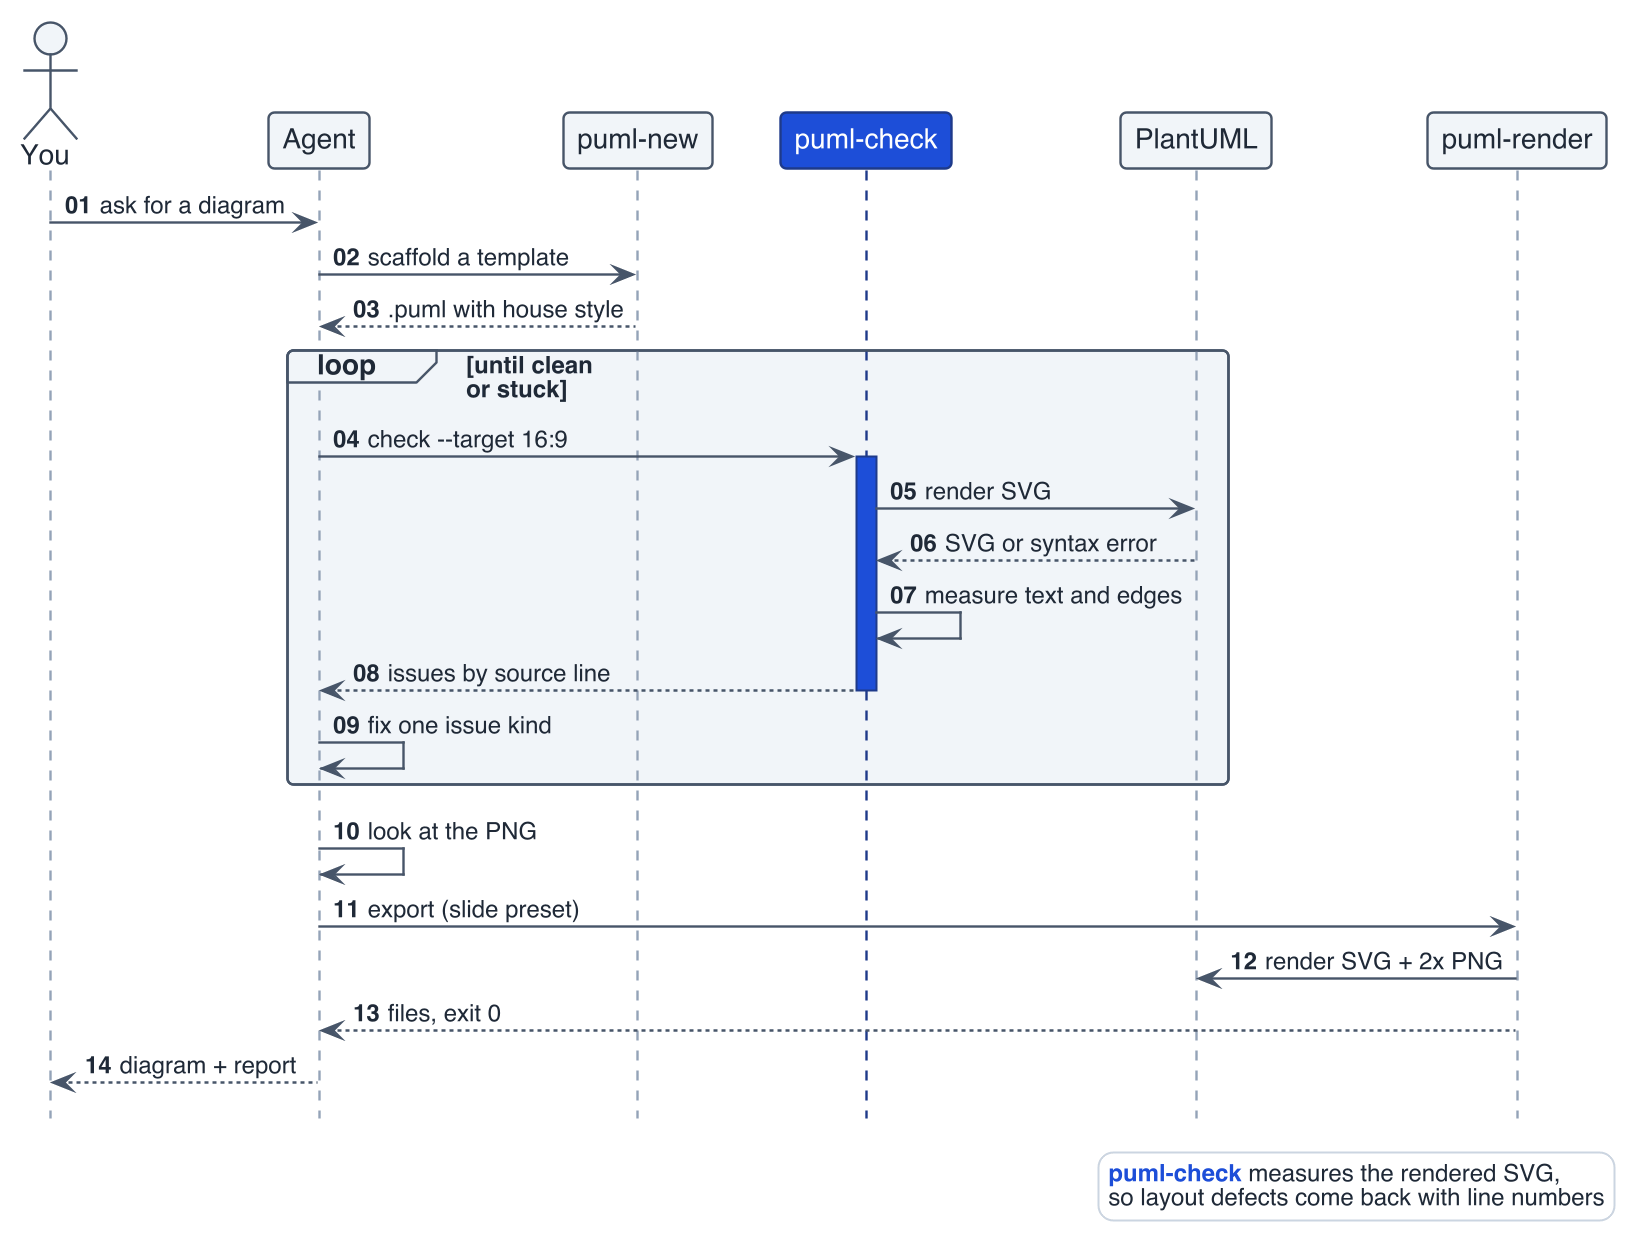
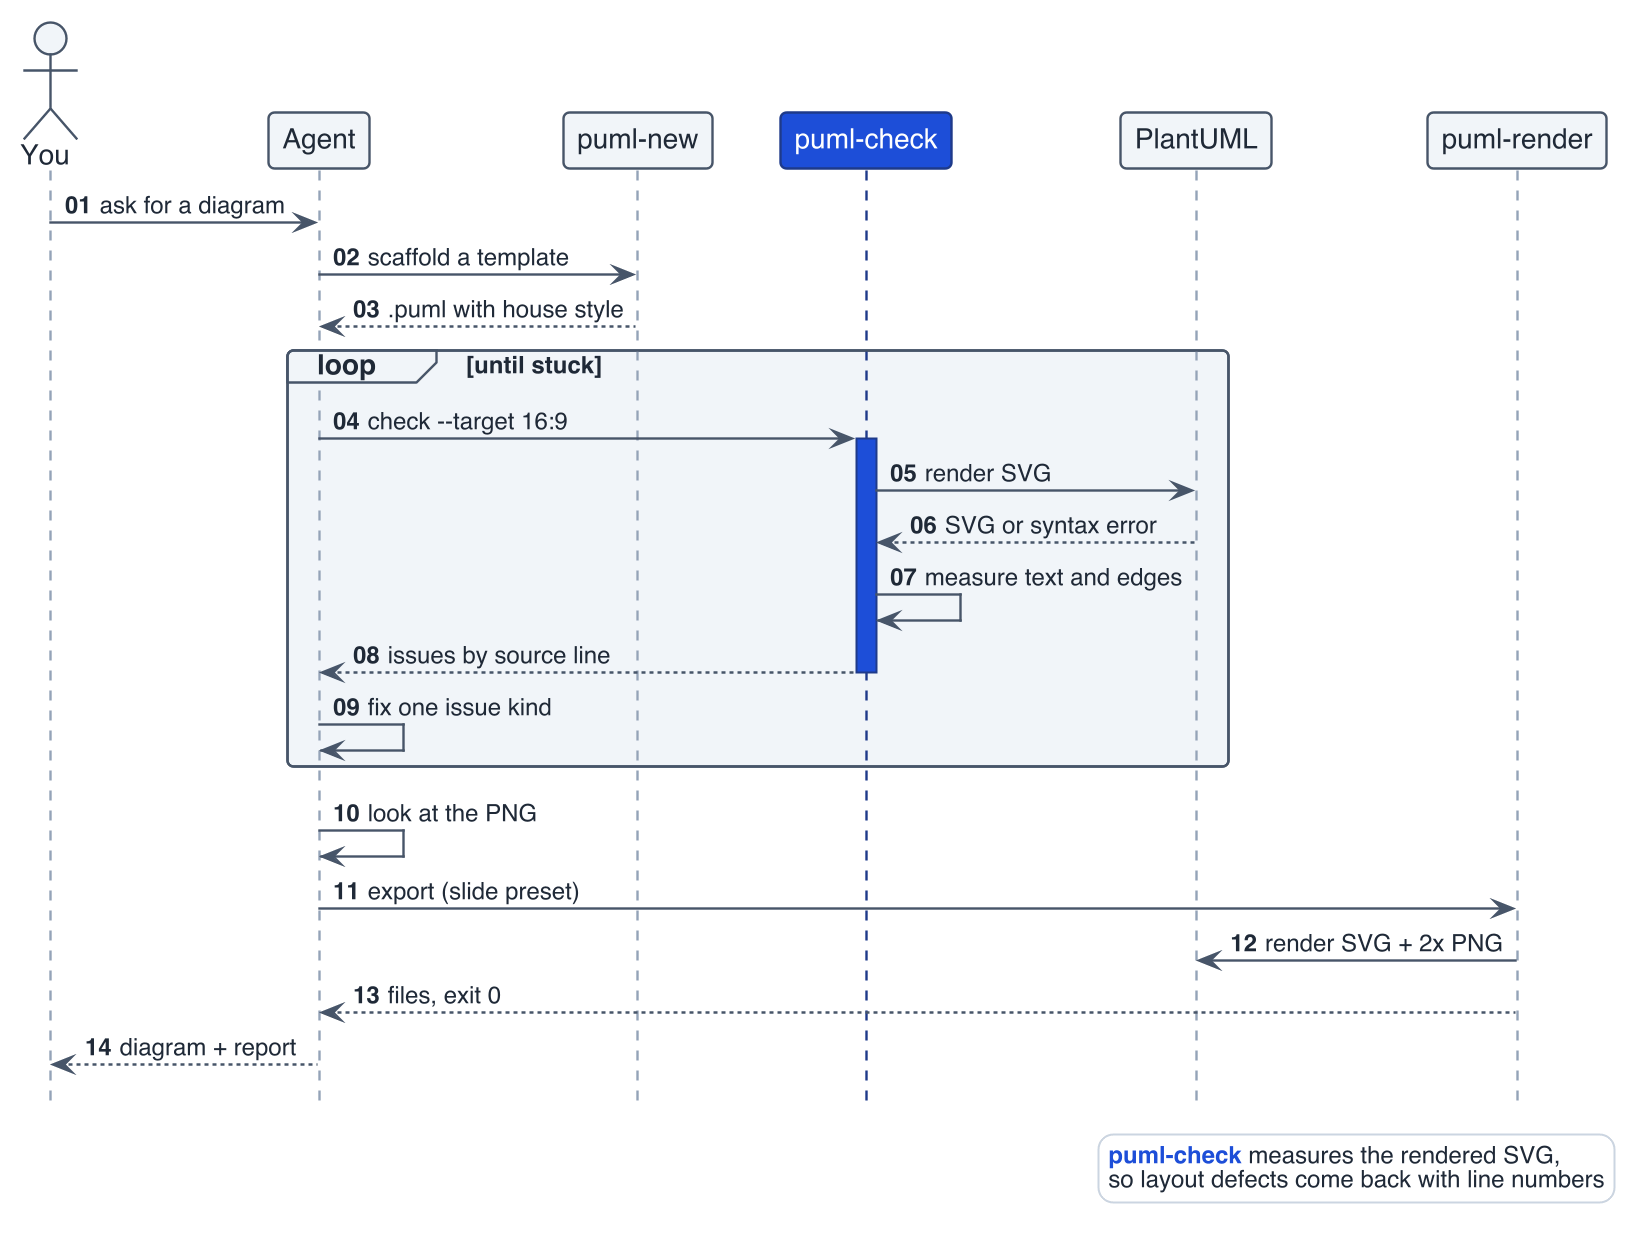
Address review: stop rule from the first render, table in choosing-and-design
- Count warn lines from the first run that renders, and stop after two
  runs that do not set a new low (a fixed syntax ERROR no longer reads
  as a regression). Cap 12 runs: the field tests needed up to 10.
- Move the simplify/split table to choosing-and-design.md (layout.md
  covers Graphviz diagrams only); data flow splits by level as
  domains.md documents; add a network row.
- One-line loop label: the two-line label made the README diagram
  taller and failed its own aspect check.

diff --git a/skills/plantuml-diagrams/references/choosing-and-design.md b/skills/plantuml-diagrams/references/choosing-and-design.md
@@ -32,4 +32,22 @@ edges: from -> to : label           (≤ 4 words)
 direction: TB | LR                  (TB for hierarchies/trees; LR for chains, pipelines, layered flows on slides)
 target: 16:9 | letter | none
 ```
-Then scaffold (`puml-new`), fill in, check, look, fix (until two runs in a row stop lowering the issue count), export.
+Then scaffold (`puml-new`), fill in, check, look, fix (see below for when to stop), export.
+
+## When the fix loop stalls
+Count the `warn` lines from the first run that renders; fix a syntax `ERROR` first, it does not count. Keep going while
+a run sets a new lowest count. Stop when two runs in a row do not beat the lowest count so far, or at 12 runs. In the
+field tests, dense diagrams inside the size limits took 4-10 runs. When they stall, the remaining issues usually just
+move around (an edge that crosses a boundary title crosses another title after each change). Then simplify before you
+split, and tell the user what you dropped:
+
+| Type | Simplify | Split |
+|---|---|---|
+| Sequence | reorder participants so most messages go between neighbours; payload detail in a `note right` | one diagram per flow or phase (`references/sequence.md`) |
+| Activity | `switch` instead of `elseif` chains; ≤ 3 lanes on a slide | by phase (`references/activity.md`) |
+| Component, deployment, cloud | link to the package, not its members; move a one-to-many fan-out ("writes PDFs, sends email") into the source node; leave out an edge that loops around the whole diagram and say so in the legend | overview + one diagram per layer or zone, `<<muted>>` "(see X)" stubs (`references/domains.md`) |
+| Data flow | draw writes only, "reads omitted" in the legend | level 0, then one level-1 diagram per process (`references/domains.md`) |
+| Network | a redundant pair as one node ("A / B") with one edge; ports in the node label, not on edges | by site and by layer; physical and logical apart past ~12 nodes (`references/domains.md`) |
+| C4 | people and externals beside the boundary; shorter boundary title | split the container view by path and repeat the shared containers (`references/c4.md`) |
+| ER, class | names only; `package` per subject area, link the packages | one diagram per subject area with stub tables (`references/data-model.md`) |
+| State | composite state for a sub-lifecycle | one diagram per machine + an overview of machines (`references/state.md`) |

diff --git a/skills/plantuml-diagrams/references/layout.md b/skills/plantuml-diagrams/references/layout.md
@@ -103,18 +103,5 @@ orthogonal look on label-light diagrams.
 1. `plantuml -testdot` (Graphviz present?).
 2. `scripts/puml-check file.puml --target ...` and read the issue lines (source line numbers are 1-based).
 3. Add `!pragma svek_trace on`, render, read `svek.dot`: check `minlen`, reversed edges, `constraint=false`, clusters, node order.
-4. Change **one** thing per iteration (a direction, a hidden link, a split). Re-check. Count the `warn`/`ERROR` lines
-   after each run: keep going while the count drops. In the field tests, dense diagrams inside the size limits took 5-9
-   runs to come clean. Stop when two runs in a row do not lower the count, or at 10 runs: the remaining issues usually
-   just move around (for example, an edge that crosses a boundary title crosses another title after each change).
-5. Then simplify before you split, and tell the user what you dropped:
-
-| Type | Simplify | Split |
-|---|---|---|
-| Sequence | reorder participants so most messages go between neighbours; payload detail in a `note right` | one diagram per flow or phase (`references/sequence.md`) |
-| Activity | `switch` instead of `elseif` chains; ≤ 3 lanes on a slide | by phase (`references/activity.md`) |
-| Component, deployment, cloud | link to the package, not its members; move a one-to-many fan-out ("writes PDFs, sends email") into the source node; leave out an edge that loops around the whole diagram and say so in the legend | overview + one diagram per layer or zone, `<<muted>>` "(see X)" stubs (`references/domains.md`) |
-| Data flow | draw writes only, "reads omitted" in the legend | one diagram per trust zone |
-| C4 | people and externals beside the boundary; shorter boundary title | split the container view by path and repeat the shared containers (`references/c4.md`) |
-| ER, class | names only; `package` per subject area, link the packages | one diagram per subject area with stub tables (`references/data-model.md`) |
-| State | composite state for a sub-lifecycle | one diagram per machine + an overview of machines (`references/state.md`) |
+4. Change **one** thing per iteration (a direction, a hidden link, a split). Re-check. When to stop, and what to
+   simplify or split then: `references/choosing-and-design.md`, "When the fix loop stalls".

diff --git a/skills/plantuml-diagrams/SKILL.md b/skills/plantuml-diagrams/SKILL.md
@@ -37,7 +37,7 @@ good without running it. All paths below are relative to this skill's directory.
 2. **Inventory** (verifiable intermediate): list `alias | label | group` and `from -> to : label`; count; split if over the limits; decide target (`16:9`, `letter`, or none).
 3. **Scaffold**: `scripts/puml-new <type> docs/diagrams/<slug>.puml --title "..." [--preset slide|print] [--direction lr|tb]` then replace the example body.
 4. **Check**: `scripts/puml-check docs/diagrams/<slug>.puml --target 16:9 --png --out docs/diagrams/out`. Read every `warn`/`ERROR` line; each carries a 1-based source line. `err` is ln(ratio/target): warnings start at ±0.29 (1.33x off) unless the diagram fits its slot unscaled; `info` lines are advisory.
-5. **Fix**: one change per issue kind (shorten label, reorder declarations, direction, hidden link, split). Re-run. Keep going while each run lowers the number of `warn`/`ERROR` lines; a dense diagram inside the size limits often needs 5-8 runs. Stop when two runs in a row do not lower it, or at 10 runs, then simplify or split (moves per type: `references/layout.md` §8) and tell the user what you dropped.
+5. **Fix**: one change per issue kind (shorten label, reorder declarations, direction, hidden link, split). Re-run. Count `warn` lines from the first run that renders and keep going while a run sets a new low; dense diagrams inside the size limits take 4-10 runs. Stop when two runs in a row do not beat the lowest count, or at 12 runs, then simplify or split (moves per type: `references/choosing-and-design.md`, "When the fix loop stalls") and tell the user what you dropped.
 6. **Look**: open the PNG the checker wrote (read the image). Judge reading order, crowding, whether labels sit on their edge, consistent shapes, legend. Fix at most 2 more rounds.
 7. **Export**: `scripts/puml-render docs/diagrams/<slug>.puml --preset slide|print --out docs/diagrams/out` (SVG + 2x PNG, or SVG + PDF + 300 dpi PNG).
 8. **Report**: the takeaway, the `.puml` path, the exported files, the checker's last line (size, ratio, issues), and any simplifications made.

diff --git a/README.md b/README.md
@@ -29,7 +29,7 @@ fixes what the report says, looks at the PNG itself, and only then exports.
 
 ## How it works
 
-![Sequence diagram: the agent scaffolds a template with puml-new, then loops on puml-check (render the SVG with PlantUML, measure text and edges, return issues by source line) and fixes while the issue count drops, looks at the PNG, and exports with puml-render](docs/diagrams/out/how-it-works.png)
+![Sequence diagram: the agent scaffolds a template with puml-new, then loops on puml-check (render the SVG with PlantUML, measure text and edges, return issues by source line) and fixes until the issue count stops dropping, looks at the PNG, and exports with puml-render](docs/diagrams/out/how-it-works.png)
 
 *Drawn with the skill itself: [`docs/diagrams/how-it-works.puml`](docs/diagrams/how-it-works.puml) was scaffolded with
 `puml-new sequence` and came back clean from `puml-check` on the second round.*
@@ -106,8 +106,8 @@ lifecycle, API interaction, data model or system context, and on any mention of 
 > Tidy up `docs/diagrams/billing.puml`: the labels overlap.
 
 The agent states the one takeaway the diagram must prove, inventories the nodes and edges (and splits if there are too
-many), scaffolds from a template, runs the checker, fixes the issues it reports until two runs in a row stop lowering the count, looks at the PNG,
-exports, and reports what it dropped or simplified.
+many), scaffolds from a template, runs the checker, fixes the issues it reports until the count stops dropping, looks
+at the PNG, exports, and reports what it dropped or simplified.
 
 The same tools work by hand:
 

diff --git a/CHANGELOG.md b/CHANGELOG.md
@@ -8,9 +8,9 @@ All notable changes to this project are documented here. The format follows
 
 ### Changed
 
-- The check-and-fix loop no longer stops at a fixed 3 rounds. It keeps going while each `puml-check` run lowers the
-  number of `warn`/`ERROR` lines, and stops after two runs with no drop, or at 10 runs. `references/layout.md` now
-  lists simplify and split moves for each diagram type.
+- The check-and-fix loop no longer stops at a fixed 3 rounds. Counting `warn` lines from the first run that renders,
+  it keeps going while a run sets a new low, and stops after two runs that do not, or at 12 runs.
+  `references/choosing-and-design.md` now lists simplify and split moves for each diagram type.
 
 ## [0.1.0] - 2026-10-14
 
